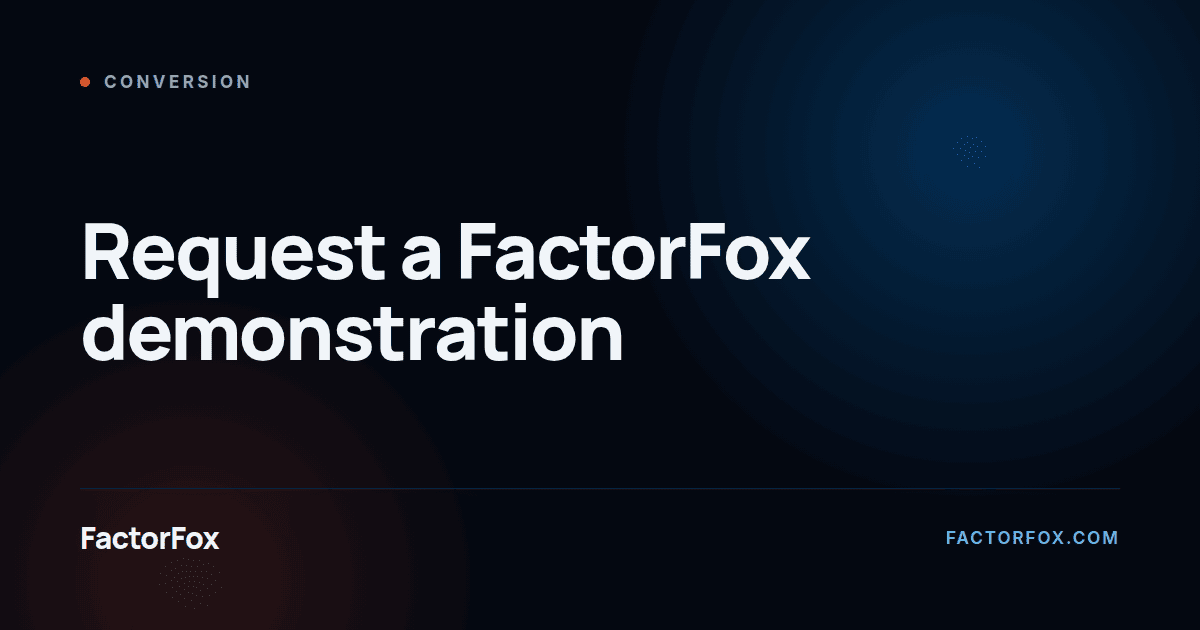
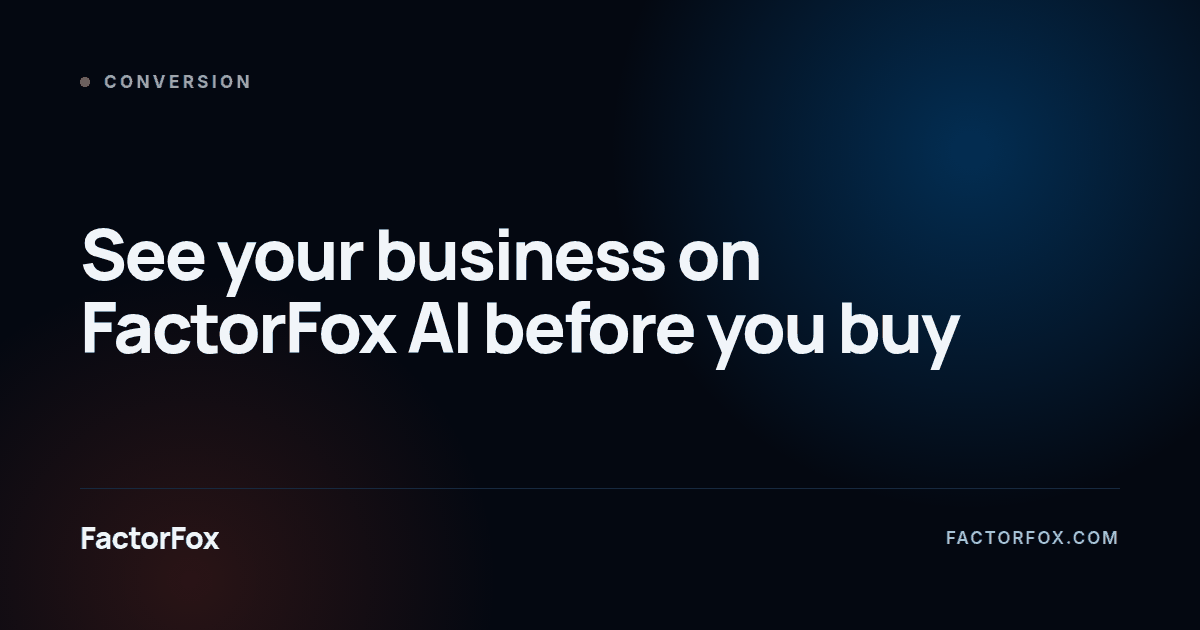
Demonstration page: see your business running on FactorFox AI before you buy it
Owner direction, September 2026. The demonstration is now the factor's own business, reconstructed and configured before any commitment: send the standard FMS reports, operating policies, client agreements and banking documents, then review your own book inside the platform, reconciled to your own report totals, with every configured term traced to its clause. "No blind migration. No generic demonstration. No commitment based on promises." The five step section, the FAQ and the page metadata follow the same line, and the migration becomes part of the evaluation rather than something that happens after signing.

Claude-Session: https://claude.ai/code/session_01Uae8PWv3WXqWQ7eQ8iAZsS

diff --git a/src/app/demo/page.tsx b/src/app/demo/page.tsx
@@ -7,9 +7,9 @@ import { pageMeta, breadcrumbSchema } from "@/lib/seo";
 import { SITE } from "@/lib/site";
 
 export const metadata: Metadata = pageMeta({
-  title: "Request a FactorFox demonstration",
+  title: "See your business on FactorFox AI before you buy",
   description:
-    "See FactorFox run against a slice of your own portfolio: briefings, evidence, underwriting, covenants and Teams approvals, on your book not a sample.",
+    "Send your FMS reports, policies, client agreements and banking documents. See your own business running on FactorFox AI, reconciled, before you commit.",
   path: "/demo",
   intent: "conversion",
 });
@@ -26,37 +26,34 @@ export default function DemoPage() {
 
       <Section className="!pb-10">
         <Container>
-          <div className="grid gap-14 lg:grid-cols-[minmax(0,0.85fr)_minmax(0,1.15fr)] lg:gap-20">
+          <div className="grid gap-14 lg:grid-cols-[minmax(0,1fr)_minmax(0,1fr)] lg:gap-16">
             <div>
               <Eyebrow tone="signal">Demonstration</Eyebrow>
-              <h1 className="mt-4 text-[clamp(2rem,4.4vw,3rem)]">
-                Bring your own book. We will brief you on it.
+              <h1 className="mt-4 text-[clamp(1.9rem,3.2vw,2.5rem)] leading-[1.12]">
+                See your business running on FactorFox AI before you buy it.
               </h1>
               <div className="mt-6 space-y-4 text-[1.0625rem] leading-[1.7] text-[var(--fg-muted)]">
                 <p>
-                  A demonstration on generic sample data proves nothing. Give us a slice of your portfolio,
-                  even an export of open receivables, and we will show you what the first briefing says
-                  about it and open the evidence behind each line.
+                  Send us your existing FMS reports, your operating policies, your client agreements and your
+                  banking documents. FactorFox AI prepares your financial environment from them, interprets
+                  your operating requirements and organizes your institutional controls.
                 </p>
                 <p>
-                  You will speak to people who have run a factoring operation, not to a sales engineer
-                  reading a script. Expect direct answers, including about the things we have not built.
+                  Then you review your own business inside the platform: your clients, your debtors and your
+                  balances, reconciled to your own report totals, with every configured term traced to the
+                  clause it came from. You make the purchasing decision after that, not before.
                 </p>
                 <p className="text-[var(--fg)]">
-                  <strong>Bring the account that always gives you trouble.</strong> The messy one, with the
-                  debtor nobody can read and the concentration that keeps creeping. That is the account
-                  worth watching, and it is the only honest test of whether any of this works. If it cannot
-                  handle your worst account, you should not buy it. That is a fair test and we are happy to
-                  take it.
+                  <strong>No blind migration. No generic demonstration. No commitment based on promises.</strong>
                 </p>
               </div>
 
               <dl className="mt-10 space-y-0">
                 {[
-                  ["What we will ask for", "A slice of open receivables. Nothing that identifies a debtor is required to make the point."],
-                  ["How long it takes", "Forty five minutes. Longer if you want to get into gates, covenants or the audit trail."],
-                  ["What you get after", "The briefing we generated against your slice, and a written note on what we could not see and why."],
-                  ["If you are migrating", "We will talk through your current data model before anyone talks about a contract."],
+                  ["Your FMS reports", "The standard reports from your current system, as far back as they go and all as of one cutoff date: invoice level aging, purchases, payments, reserves, fees, and chargebacks and adjustments, plus client and debtor lists. Excel or CSV preferred, PDF workable."],
+                  ["Your documents", "Operating policies and procedures, executed client agreements, and your bank facility agreement."],
+                  ["What you see", "Your own book in FactorFox AI, reconciled to your source totals, configured from your own documents, and briefed on the way your team will be briefed every morning."],
+                  ["While it is prepared", "Your data sits in its own isolated environment, and nothing is sent to your clients, your debtors or your staff."],
                 ].map(([t, d]) => (
                   <div key={t} className="grid gap-1 border-t border-[var(--line)] py-4 sm:grid-cols-[minmax(0,11rem)_1fr] sm:gap-8">
                     <dt className="u-eyebrow pt-1">{t}</dt>
@@ -105,42 +102,42 @@ export default function DemoPage() {
               format="svg"
               width={1228}
               height={550}
-              alt="FactorFox workspace with document, risk, workflow and collections surfaces in the sidebar, a pending invoices list, and an empty intake area waiting for an invoice to be dropped in for extraction."
-              caption="The workspace as it stands before a book is loaded. What fills it on the call is your export, not a sample portfolio we prepared earlier."
+              alt="FactorFox workspace with document, risk, workflow and collections surfaces in the sidebar, a pending invoices list, and an empty intake area waiting for documents to be dropped in."
+              caption="The workspace as it stands before a book is loaded. What fills it for your review is your own business, not a sample portfolio we prepared earlier."
             />
           </div>
         </Container>
       </Section>
 
       <StepList
-        eyebrow="What the session looks like"
-        title="Forty five minutes, on your data, with the awkward questions welcome."
-        lede="We would rather spend the time on your book than on a slide about ours. Nothing below requires a signature or a shortlist place."
+        eyebrow="How it works"
+        title="Your reports and documents in. Your own business, running, out."
+        lede="The migration is not something that happens after you sign. It is how you evaluate the platform."
         steps={[
           {
-            label: "Before",
-            title: "You send a slice of open receivables",
-            body: "An export is enough. Client, debtor, invoice number, amount, date, status, and whatever aging you already produce. If your compliance team wants debtor names masked, mask them. The point survives.",
+            label: "01",
+            title: "You send what you already have",
+            body: "The standard reports from your current FMS, your policies and procedures, your executed client agreements and your bank facility agreement. No data entry, and no new forms to fill in.",
           },
           {
-            label: "Minute 0",
-            title: "We generate the first briefing against it",
-            body: "You watch the six questions answer themselves on your own portfolio. Where the data does not support an answer, the platform says so instead of filling the gap, and that behavior is worth seeing as much as the answers are.",
+            label: "02",
+            title: "FactorFox AI rebuilds your book",
+            body: "Clients, debtors, open invoices, reserves and history are reconstructed from your reports and reconciled against their own totals. Anything that does not tie is named, not smoothed over.",
           },
           {
-            label: "Minute 15",
-            title: "You open the evidence behind whatever looks wrong",
-            body: "Pick the line you least believe. We open what produced it. This is the part of the demonstration that tends to decide things.",
+            label: "03",
+            title: "Your operating rules are set up from your documents",
+            body: "Client agreements become terms, fees and gates. Policies become the approvals and controls your team works under. Your facility covenants are recorded and tracked against the live book. Every setting links back to the document it came from.",
           },
           {
-            label: "Minute 30",
-            title: "We show you the controls, including the refusals",
-            body: "Four eyes on a release, a bank change held for human review, a gate that refuses to assert something it cannot verify. If your bank or your auditor will ask, ask it here first.",
+            label: "04",
+            title: "You review your own business inside the platform",
+            body: "Your morning briefing on your own book, the evidence behind every line, and the controls, including the ones that refuse. Pick the account that always gives you trouble and watch what it does with it.",
           },
           {
-            label: "After",
-            title: "You get the briefing and an honest list of what we could not see",
-            body: "In writing. Including the sources that were not connected and what each one would have added. If a capability you need is planned rather than available, that list is where you find out.",
+            label: "05",
+            title: "You decide with the evidence in front of you",
+            body: "In writing, you also get what could not be reconciled or configured and why. If you go ahead, the work is not repeated: the reconstruction you reviewed is the starting point for your migration.",
           },
         ]}
       />
@@ -149,8 +146,12 @@ export default function DemoPage() {
         title="Before you fill anything in"
         items={[
           {
-            q: "Do we have to send real data?",
-            a: "No. Masked debtor names and rounded amounts still produce a real briefing, because the movement and the relationships are what the platform reads. Some operators send a full export under an agreement instead. Either works.",
+            q: "Do we have to send everything at once?",
+            a: "No. The invoice level aging and one executed client agreement are enough to start, and the rest can follow. The more of your operation you send, the more of it you see running before you decide.",
+          },
+          {
+            q: "Is our data safe while you prepare it?",
+            a: "Your data sits in its own isolated environment, and nothing is sent to your clients, your debtors or your staff while it is prepared. If your compliance team wants an agreement in place first, we sign it before anything is sent.",
           },
           {
             q: "Who will we actually be talking to?",
@@ -158,7 +159,7 @@ export default function DemoPage() {
           },
           {
             q: "We are on FactorSoft. Is this a waste of time?",
-            a: "It is the opposite. Bring your data model questions. We publish a working guide to what a FactorSoft conversion involves, and the first call usually spends more time on your extract than on our screens.",
+            a: "It is the opposite. Send the standard reports FactorSoft already produces and you will see your own book running on FactorFox AI. Our working guide to a FactorSoft conversion sets out what moves and what needs a decision.",
           },
           {
             q: "We are not ready to switch systems. Should we still book?",
